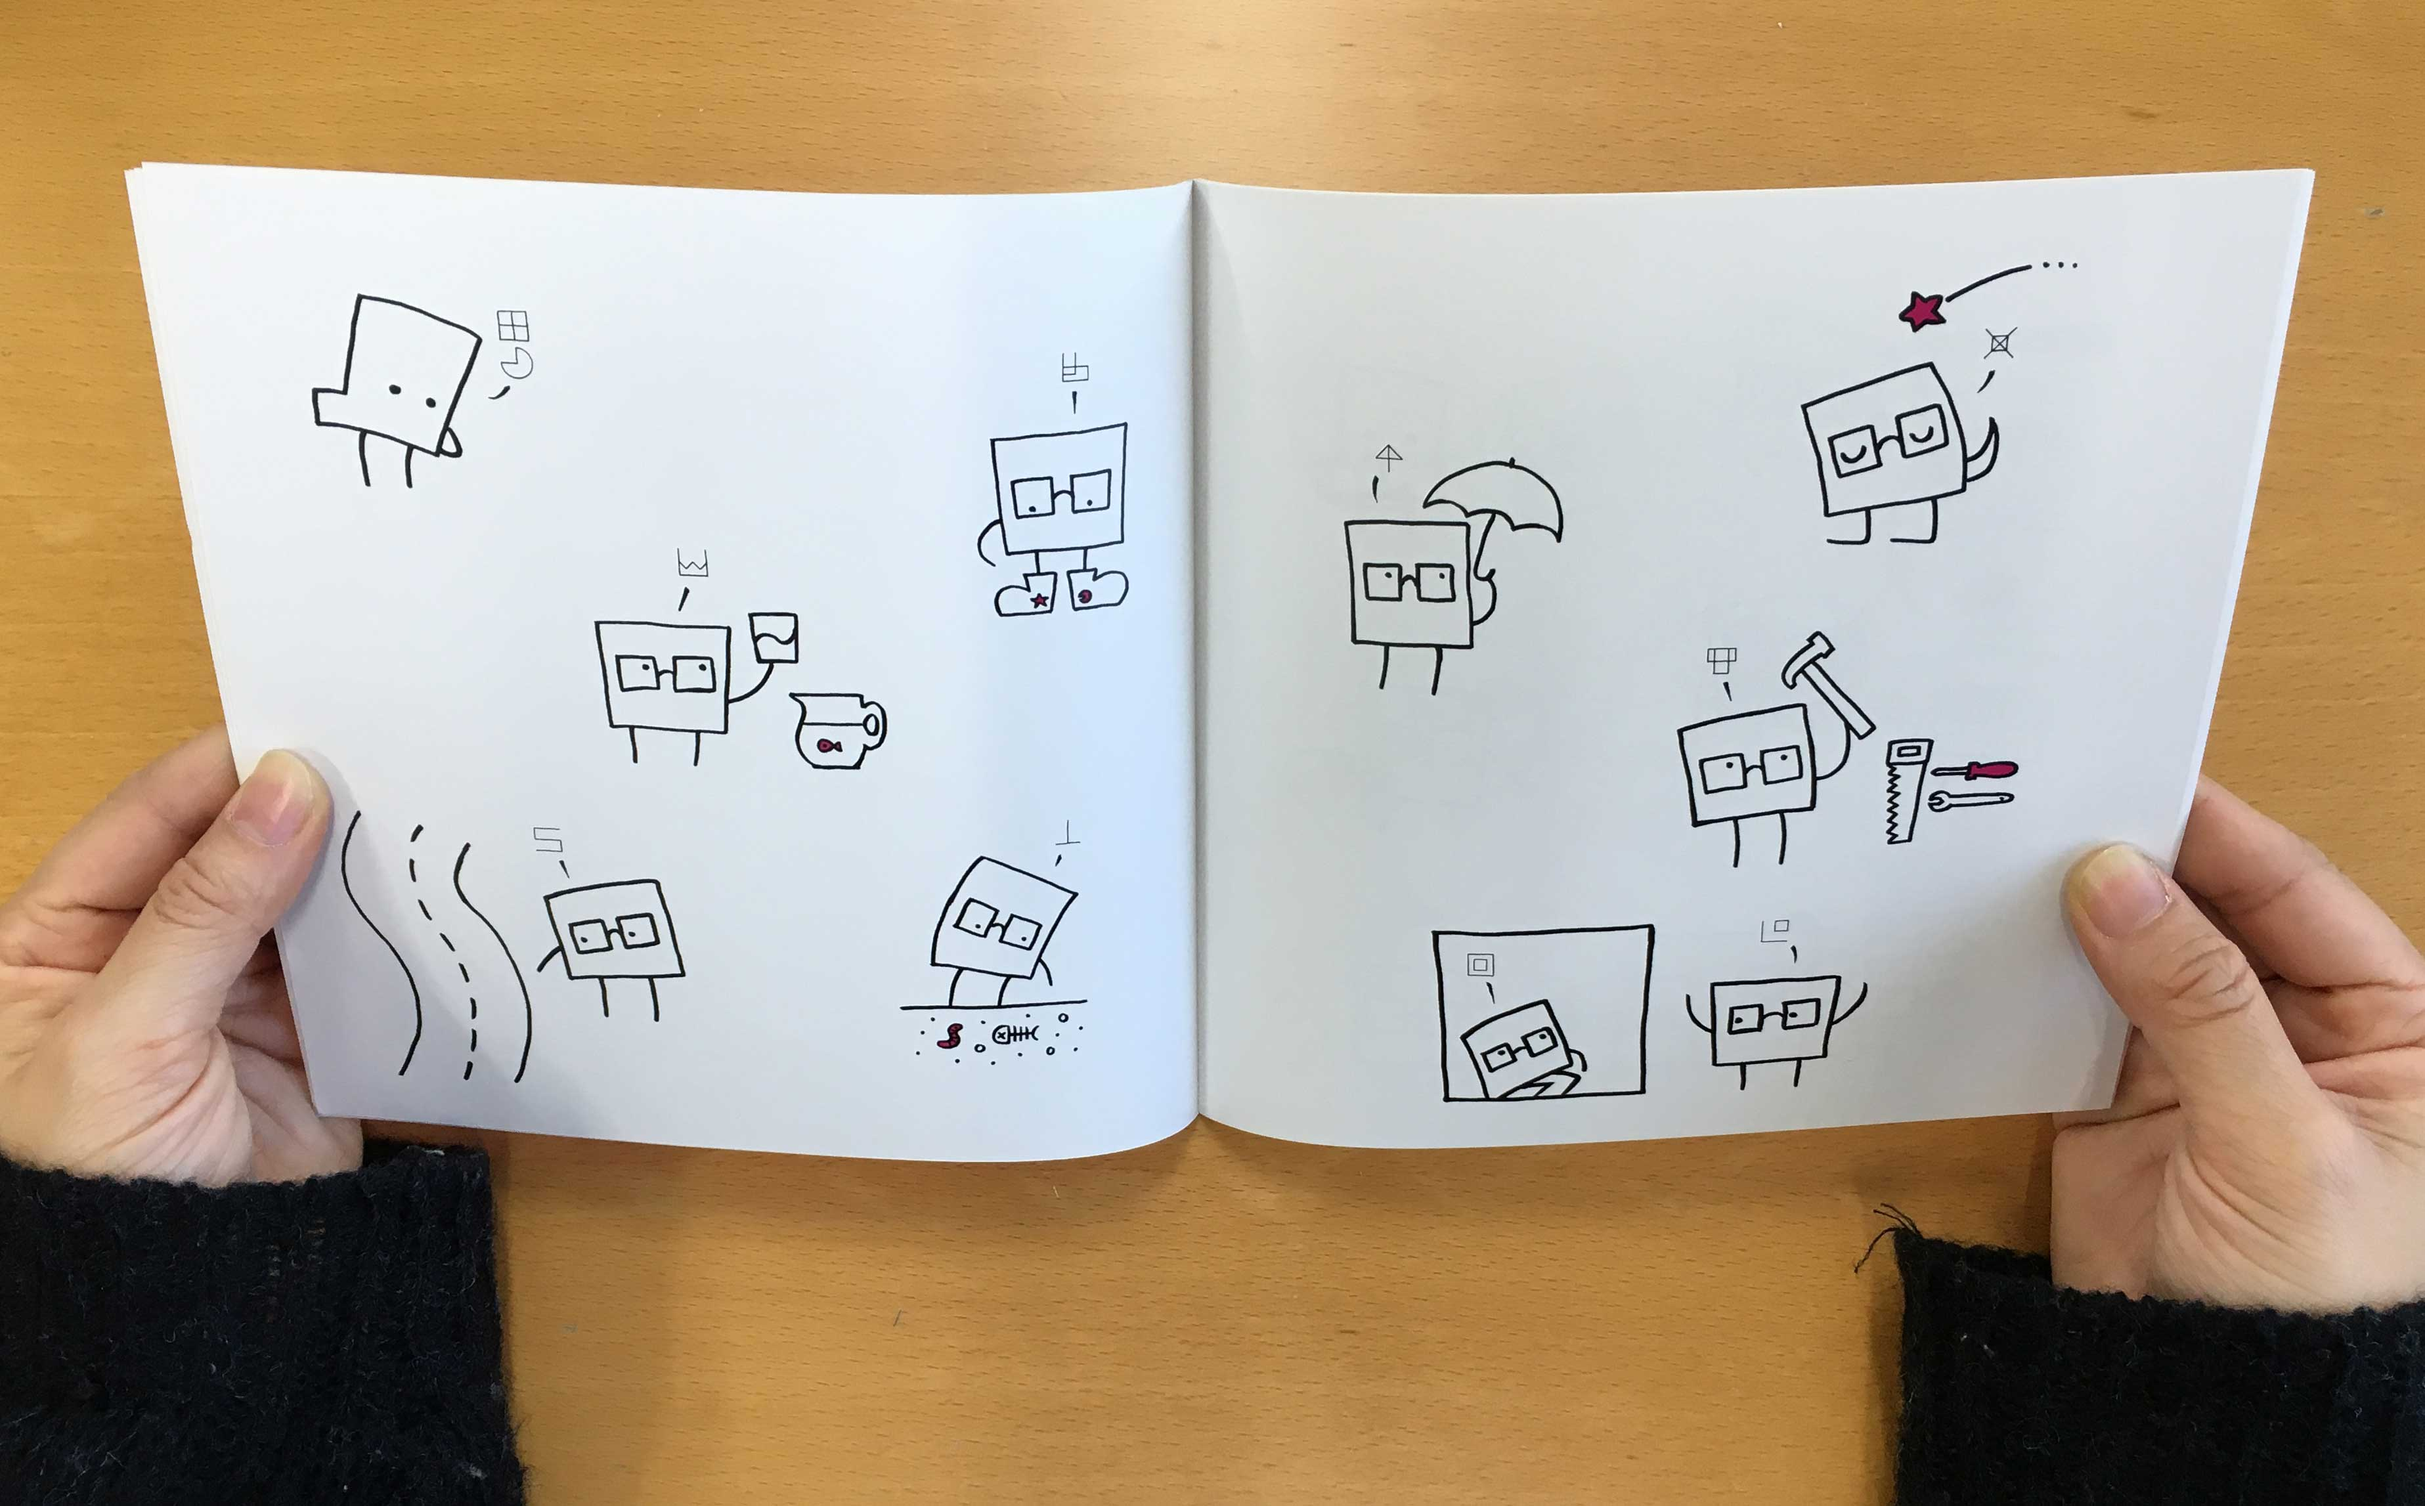
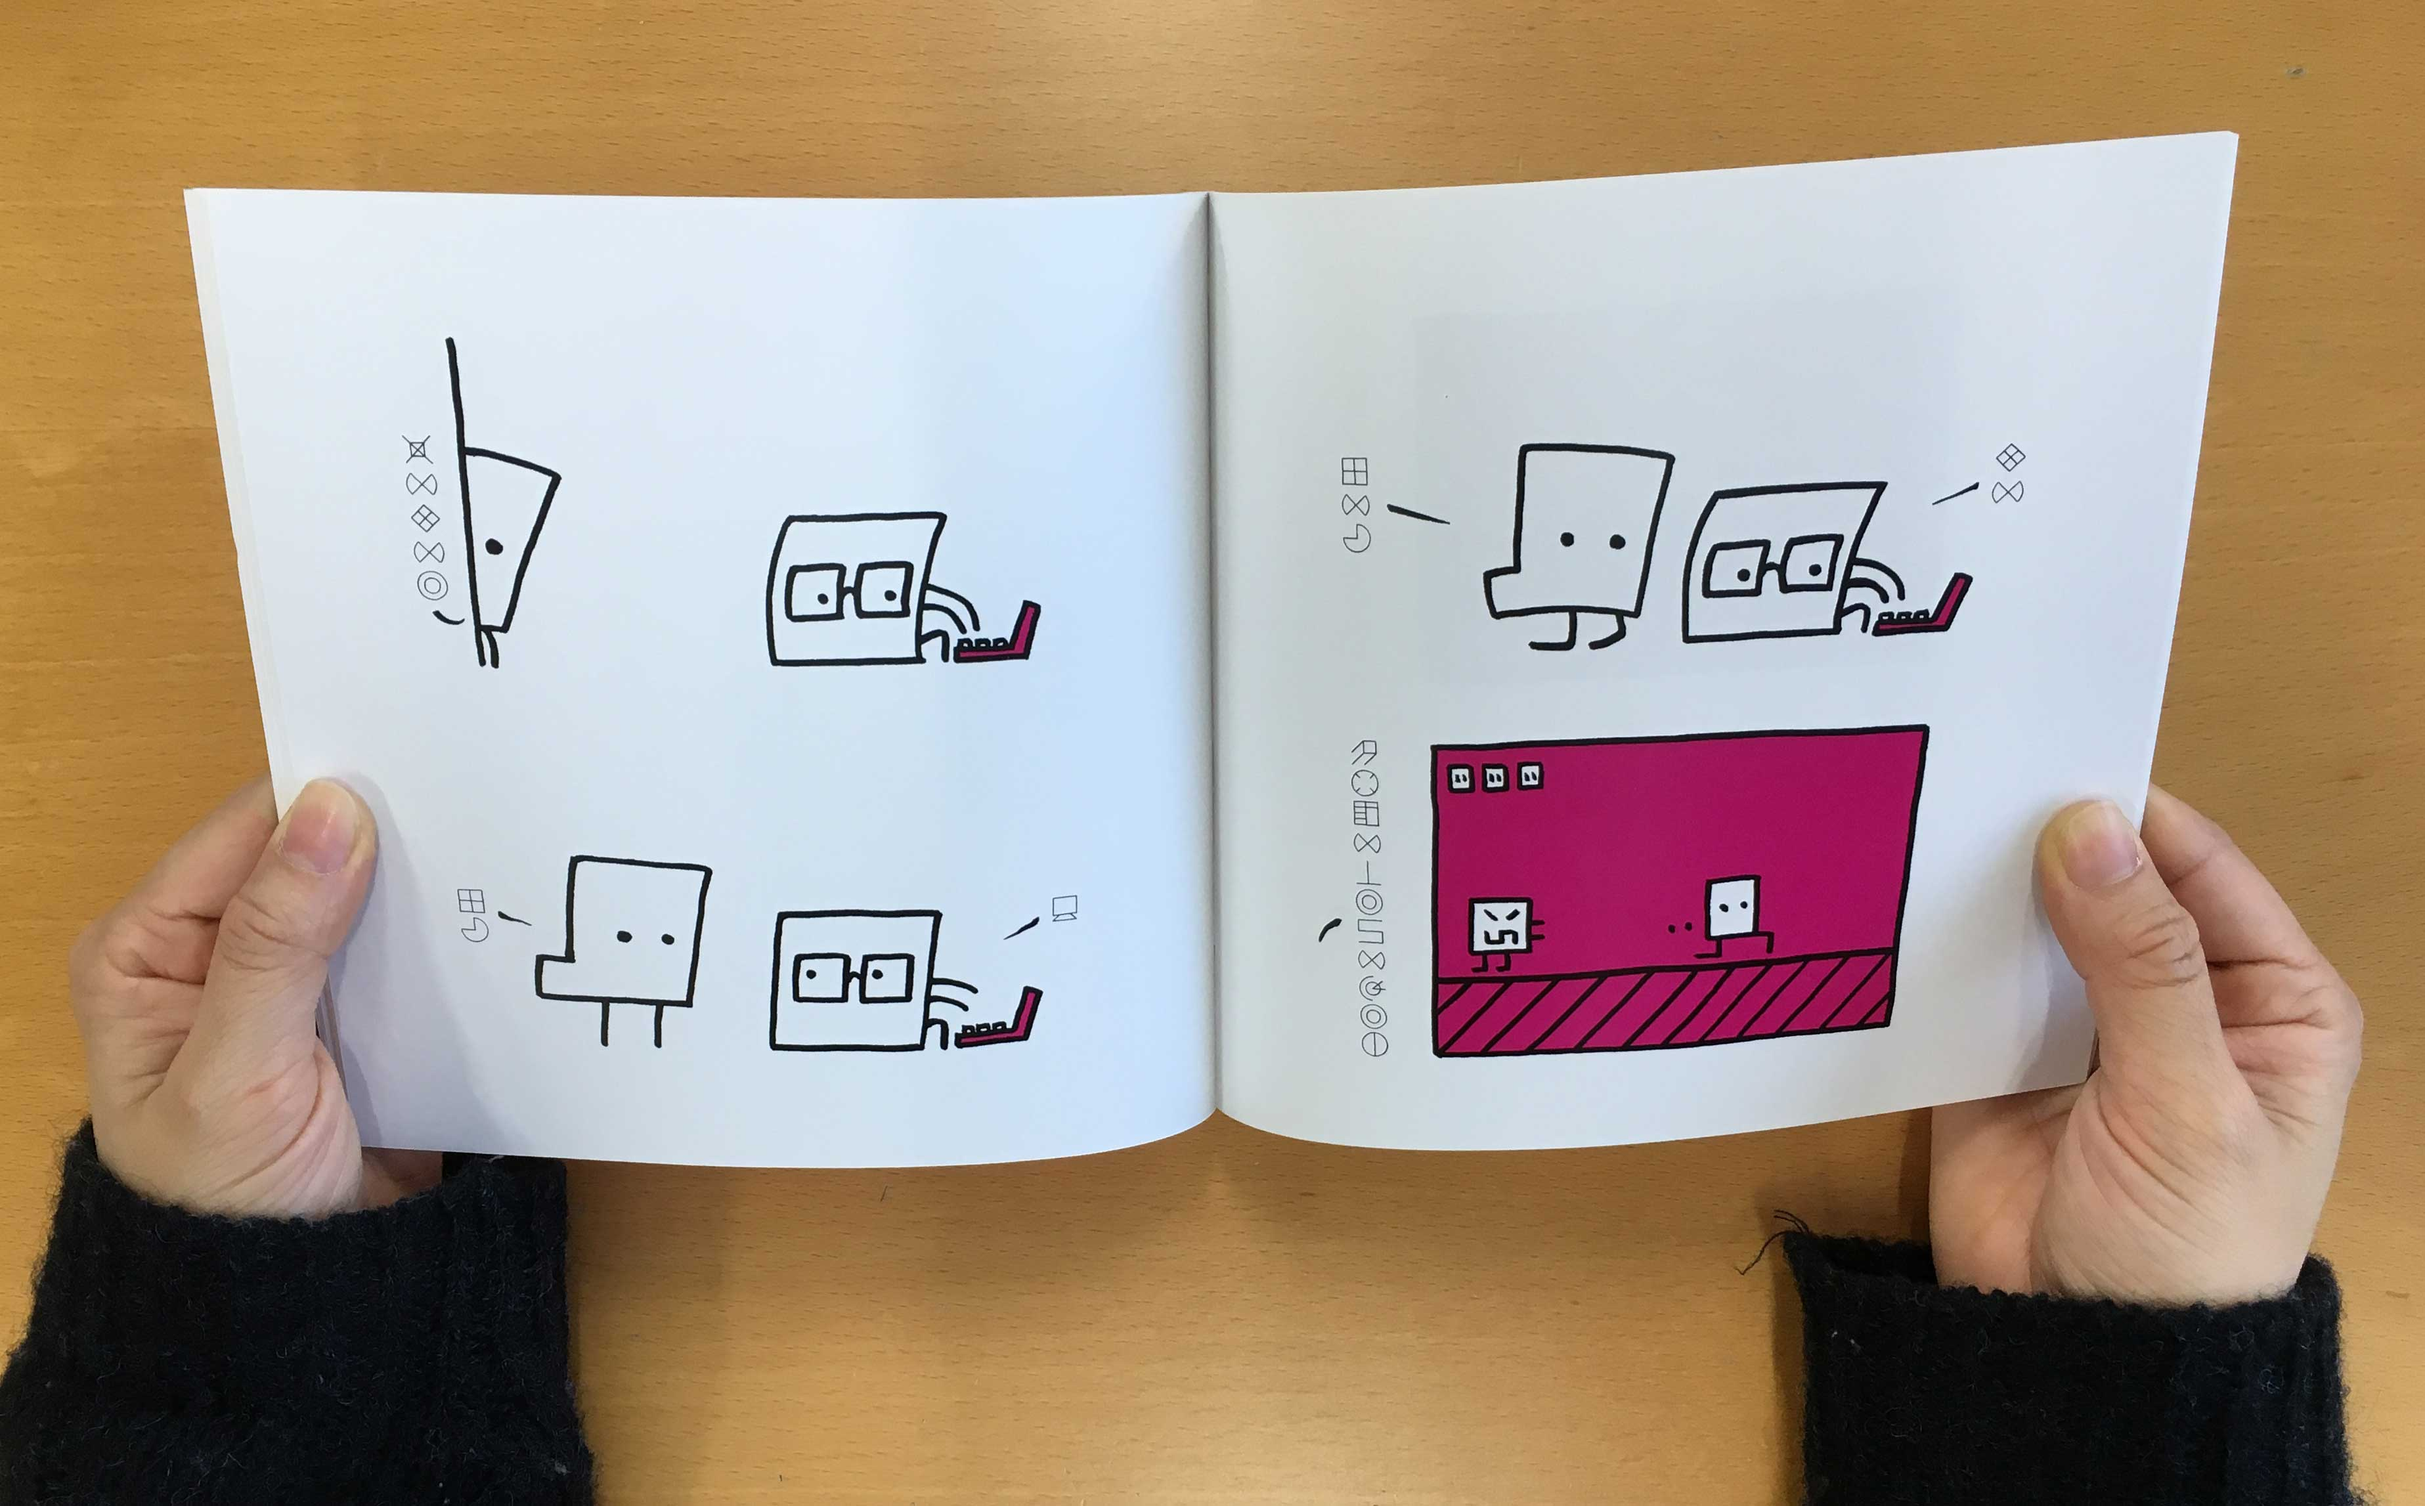
- Added video and screenshots to flowerpattern. - Added new screenshots to kotokan.

diff --git a/source/data/works/kotokan/default.md b/source/data/works/kotokan/default.md
@@ -12,13 +12,17 @@ visuals:
     host: Vimeo
     id: "201826714"
   - type: Image
+    url: tenji01.jpg
+  - type: Image
     url: book01.jpg
   - type: Image
     url: book02.jpg
   - type: Image
-    url: book03.jpg
-  - type: Image
     url: postcards01.jpg
+  - type: Image
+    url: postcards02-en.png
+  - type: Image
+    url: video01.jpg
   - type: Video
     host: Vimeo
     id: "199388496"

diff --git a/source/data/works/flowerpattern/default.md b/source/data/works/flowerpattern/default.md
@@ -13,6 +13,18 @@ readMore: http://blog.agj.cl/tag/flower-pattern/
 links:
   - label: Play
     url: http://www.agj.cl/files/games/flowerpattern/
+visuals:
+  - type: Video
+    host: Youtube
+    id: "PpfZt4hwKi4"
+  - type: Image
+    url: 01.png
+  - type: Image
+    url: 02.png
+  - type: Image
+    url: 03.png
+  - type: Image
+    url: 04.png
 ---
 
 
